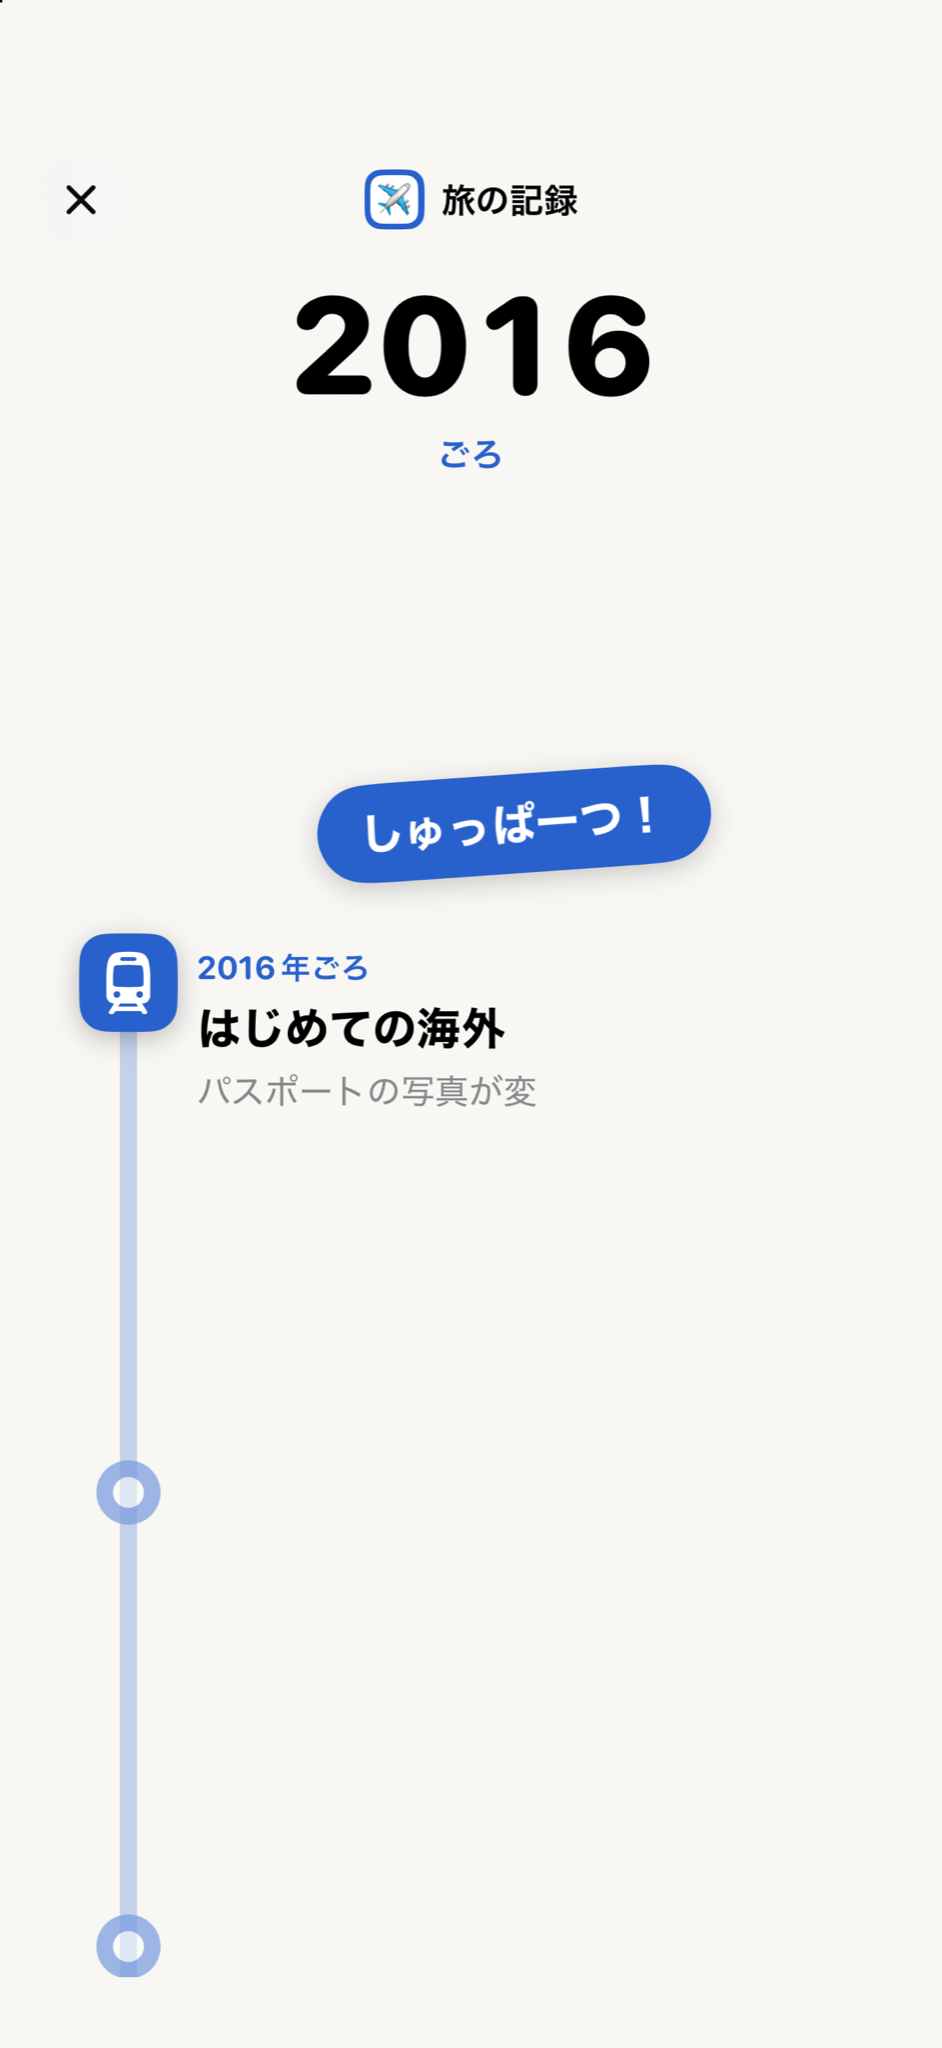
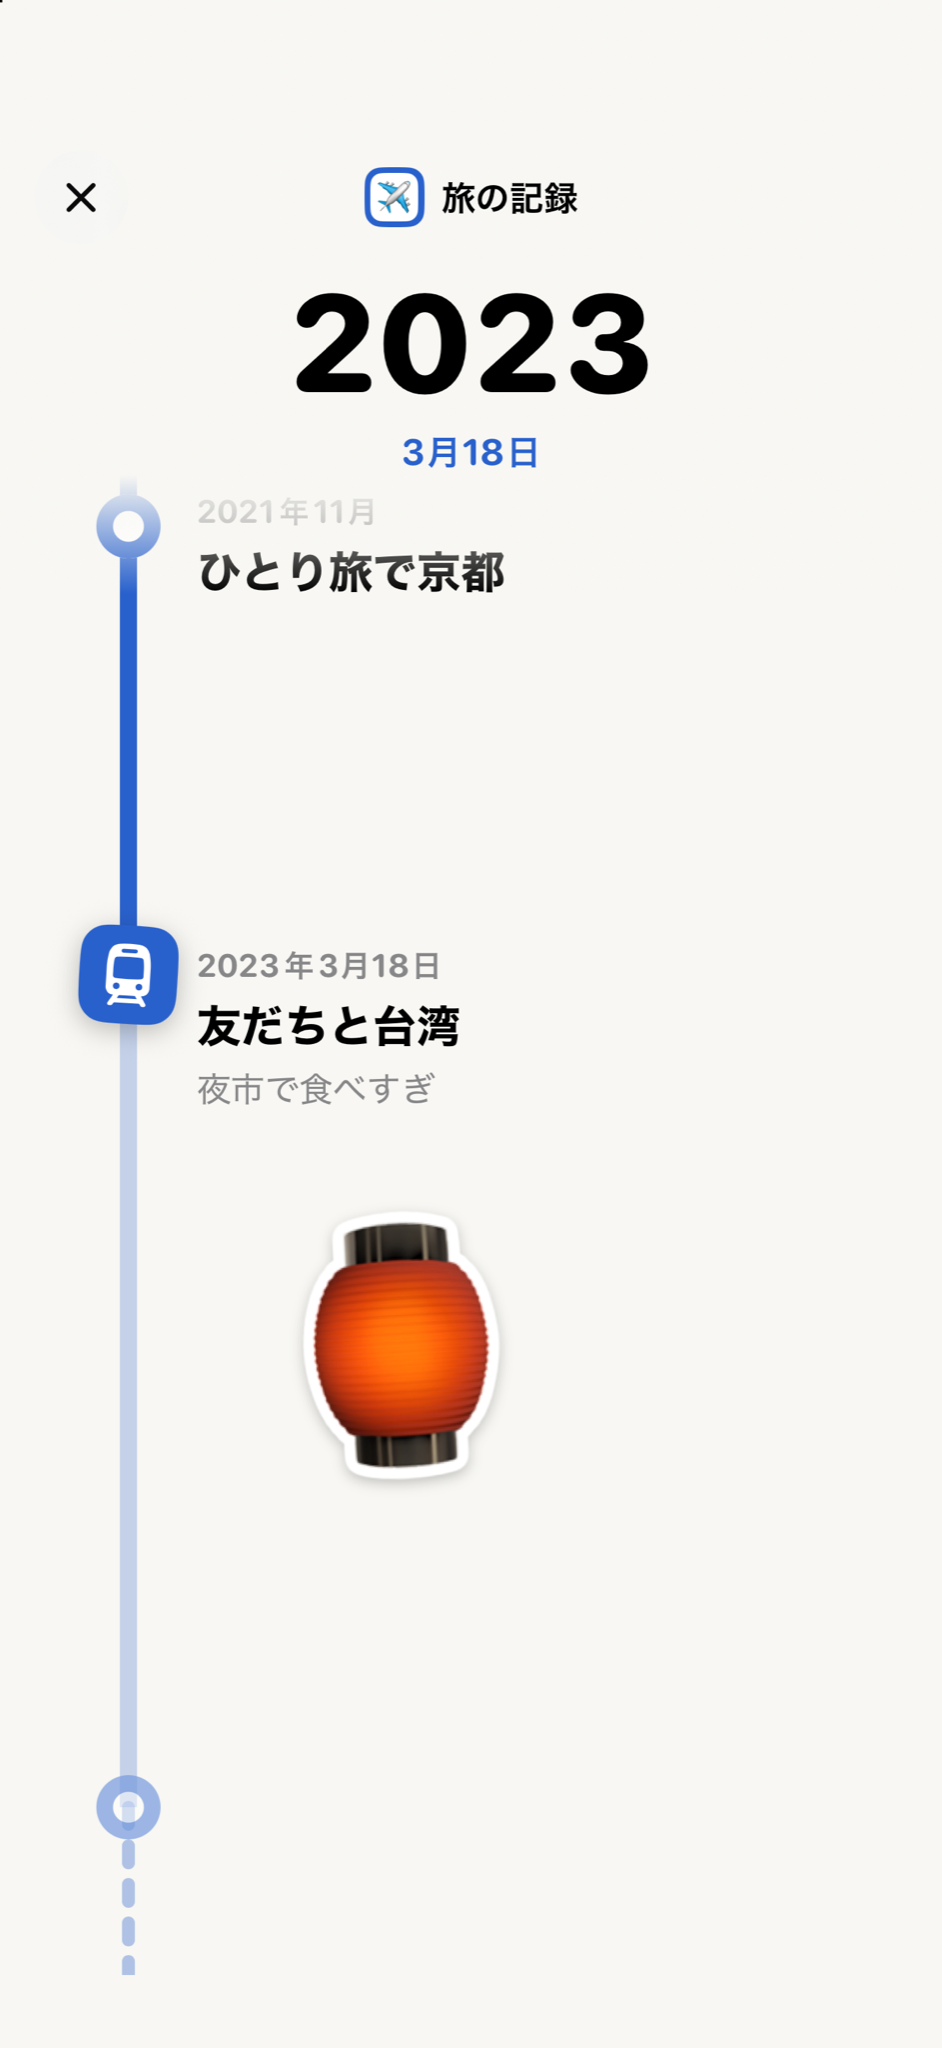
あのころ線：スクショを更新（途中のふりかえり、足あとの着せ替え、写真）
Claude-Session: https://claude.ai/code/session_01T1AS2PeXS4ZJJ3j7rkCQNP

diff --git a/anokoro-sen/index.html b/anokoro-sen/index.html
@@ -64,8 +64,8 @@
           <div class="slide-copy"><span>02</span><h3>乗ってふりかえる</h3><p>年号が進み、駅ごとに出来事が現れます。</p></div>
         </article>
 <article class="slide" data-slide>
-          <div class="shot-frame"><img src="assets/screenshots/03-motifs.jpg" alt="星座の見た目" loading="lazy"></div>
-          <div class="slide-copy"><span>03</span><h3>着せ替え</h3><p>星座では北斗七星が少しずつ完成します。</p></div>
+          <div class="shot-frame"><img src="assets/screenshots/03-motifs.png" alt="足あとの見た目" loading="lazy"></div>
+          <div class="slide-copy"><span>03</span><h3>着せ替え（定期券）</h3><p>足あとでは駅がねこに。すごろく・星座も選べます。</p></div>
         </article>
 <article class="slide" data-slide>
           <div class="shot-frame"><img src="assets/screenshots/04-photos.png" alt="写真で残せる" loading="lazy"></div>
